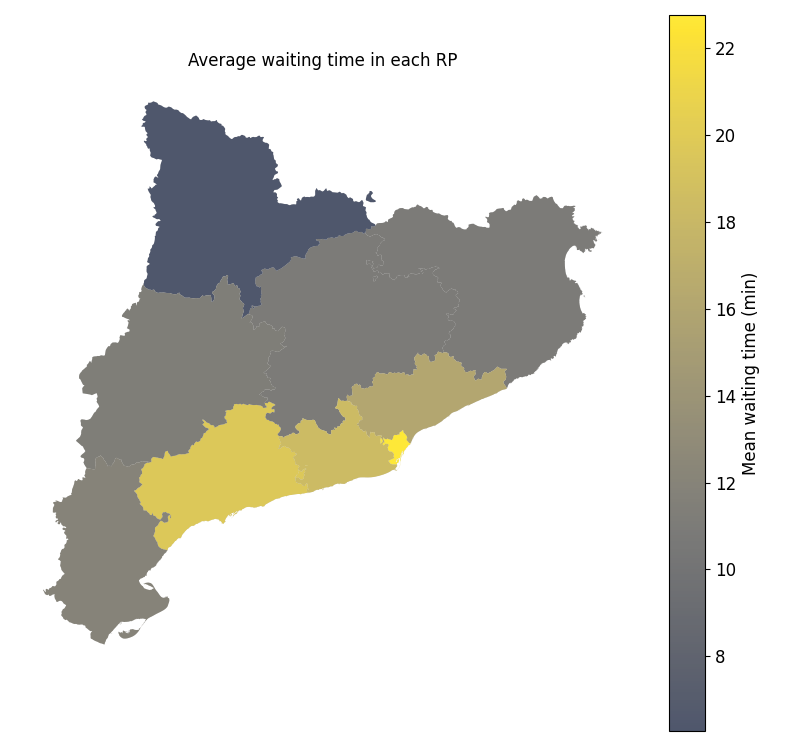
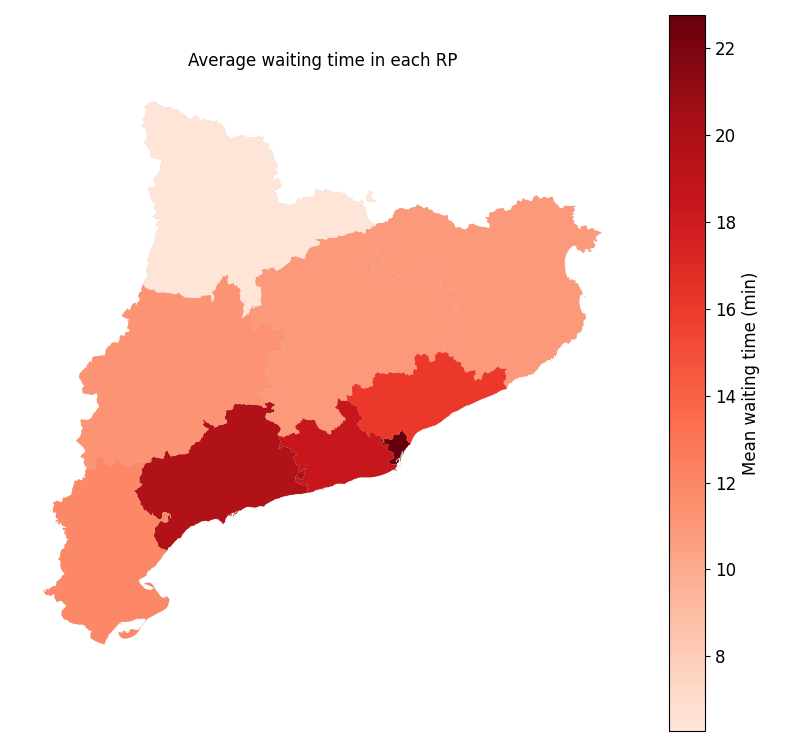
Added figures for density, for 10000 habitants

Changed region(s): [[0.0625, 0.1233, 0.75, 0.8633], [0.8125, 0.0, 0.9062, 0.9866]]

diff --git a/Nil/code_data.py b/Nil/code_data.py
@@ -75,14 +75,23 @@ number_of_years = 10 # to divide and obtain the mean for all years (from 2011 to
 
 #%%
 # Specific ABP
-ABP = 'Alt Urgell'
+ABP = 'Granollers'
 single_ABP = data_df[data_df['rea_b_sica_policial_abp'] == 'ABP ' + ABP]
 
-mes_visites = pd.DataFrame({'Mes':single_ABP.loc[:,'nom_mes'], 'Nombre visites':single_ABP.loc[:,'nombre_de_visites']})
-mes_visites = mes_visites.set_index('Mes')
+mes_visites = pd.DataFrame({'Any':single_ABP.loc[:,'any'], 'Nombre visites':single_ABP.loc[:,'nombre_de_visites']})
+mes_visites = mes_visites.set_index('Any')
+
+xticks_list = np.empty(number_of_years*12, dtype=tuple)
+xticks_list = xticks_list.tolist()
+
+for i in range(0,number_of_years*12):
+    if (i % 12) == 0:
+        xticks_list.insert(i,tuple(2011+i//12))
+    else:
+        xticks_list.insert(i,'')
 
 # To plot the number of visits in one specific ABP
-mes_visites.plot(kind='bar', title='ABP '+ABP, xlabel='Month', ylabel='Number of visits', 
+mes_visites.plot(kind='bar', title='ABP '+ABP, xticks=(), xlabel='Year', ylabel='Number of visits', 
                  rot=60, stacked=False, legend=False)
 
 
@@ -213,6 +222,8 @@ for RP in list_RP:
     map_regi.loc[RP,'Mean number of visits'] = mean_visites_RP.loc[RP,'Mean number of visits']
     map_regi.loc[RP,'Mean waiting time'] = mean_time_RP.loc[RP,'Mean waiting time']
     
+    
+
 
 
 #%% PLOT FOR AVERAGE NUMBER OF VISITS PER YEAR IN EACH RP
@@ -224,11 +235,11 @@ cat.plot(ax = ax, color = "lightgray")
 plt.title('Average number of visits per year in each RP')
 plt.axis(False)
 
-min_val, max_val = 0.3,1.0
+min_val, max_val = 0.1,1.0
 n = 100
 vmin = map_regi['Mean number of visits'].min()
 vmax = map_regi['Mean number of visits'].max()
-orig_cmap = plt.cm.cividis
+orig_cmap = plt.cm.Reds
 colors = orig_cmap(np.linspace(min_val, max_val, n))
 cmap = matplotlib.colors.LinearSegmentedColormap.from_list("mycmap", colors)
 sm = plt.cm.ScalarMappable(cmap=cmap, norm=plt.Normalize(vmin=vmin, vmax=vmax))
@@ -251,11 +262,11 @@ cat.plot(ax = ax, color = "lightgray")
 plt.title('Average waiting time in each RP')
 plt.axis(False)
 
-min_val, max_val = 0.3,1.0
+min_val, max_val = 0.1,1.0
 n = 100
 vmin = map_regi['Mean waiting time'].min()
 vmax = map_regi['Mean waiting time'].max()
-orig_cmap = plt.cm.cividis
+orig_cmap = plt.cm.Reds
 colors = orig_cmap(np.linspace(min_val, max_val, n))
 cmap = matplotlib.colors.LinearSegmentedColormap.from_list("mycmap", colors)
 sm = plt.cm.ScalarMappable(cmap=cmap, norm=plt.Normalize(vmin=vmin, vmax=vmax))
@@ -267,6 +278,74 @@ plt.tight_layout()
 map_regi.plot(ax = ax, column='Mean waiting time', cmap=cmap)
 
 f.savefig('cat_time.png')
+plt.show()
+
+
+
+#%% DENSITY
+
+RP_tot_pop = {'RP Metropolitana Nord':2195758, 
+               "RP Girona":766681, 'RP Central':530715, "RP Metropolitana Sud":1366442,
+               "RP Camp de Tarragona":637198, 
+               "RP Terres de l'Ebre":179574,"RP Ponent":367016, 
+               "RP Pirineu Occidental": 72913, "RP Metropolitana Barcelona":1664182}
+#reg_poli.set_index("RP")
+for key in RP_tot_pop.keys():
+    map_regi.at[key, "Mean number of visits"] = map_regi.at[key, "Mean number of visits"]*10000/RP_tot_pop[key]
+    map_regi.at[key, "Mean waiting time"] = map_regi.at[key, "Mean waiting time"]*10000/RP_tot_pop[key]
+    
+#%% PLOT FOR AVERAGE NUMBER OF VISITS PER YEAR IN EACH RP FOR 10000 HABITANTS
+
+f, ax = plt.subplots(figsize=(8,8))
+cat.plot(ax = ax, color = "lightgray")
+
+
+plt.title('Average number of visits per year in each RP for 10000 habitants')
+plt.axis(False)
+
+min_val, max_val = 0.1,1.0
+n = 100
+vmin = map_regi['Mean number of visits'].min()
+vmax = map_regi['Mean number of visits'].max()
+orig_cmap = plt.cm.Reds
+colors = orig_cmap(np.linspace(min_val, max_val, n))
+cmap = matplotlib.colors.LinearSegmentedColormap.from_list("mycmap", colors)
+sm = plt.cm.ScalarMappable(cmap=cmap, norm=plt.Normalize(vmin=vmin, vmax=vmax))
+cbar = f.colorbar(sm)
+cbar.set_label('Mean number of visits per year', fontsize = 12)
+cbar.ax.tick_params(labelsize=12)
+plt.tight_layout()
+
+map_regi.plot(ax = ax, column='Mean number of visits', cmap=cmap)
+
+f.savefig('cat_visits_10000.png')
+plt.show()
+
+#%% PLOT FOR AVERAGE WAITING TIME IN EACH RP FOR 10000 HABITANTS
+
+f, ax = plt.subplots(figsize=(8,8))
+cat.plot(ax = ax, color = "lightgray")
+
+
+plt.title('Average waiting time in each RP for 10000 habitants')
+plt.axis(False)
+
+min_val, max_val = 0.1,1.0
+n = 100
+vmin = map_regi['Mean waiting time'].min()
+vmax = map_regi['Mean waiting time'].max()
+orig_cmap = plt.cm.Reds
+colors = orig_cmap(np.linspace(min_val, max_val, n))
+cmap = matplotlib.colors.LinearSegmentedColormap.from_list("mycmap", colors)
+sm = plt.cm.ScalarMappable(cmap=cmap, norm=plt.Normalize(vmin=vmin, vmax=vmax))
+cbar = f.colorbar(sm)
+cbar.set_label('Mean waiting time (min)', fontsize = 12)
+cbar.ax.tick_params(labelsize=12)
+plt.tight_layout()
+
+map_regi.plot(ax = ax, column='Mean waiting time', cmap=cmap)
+
+f.savefig('cat_time_10000.png')
 plt.show()
 
 #%%
